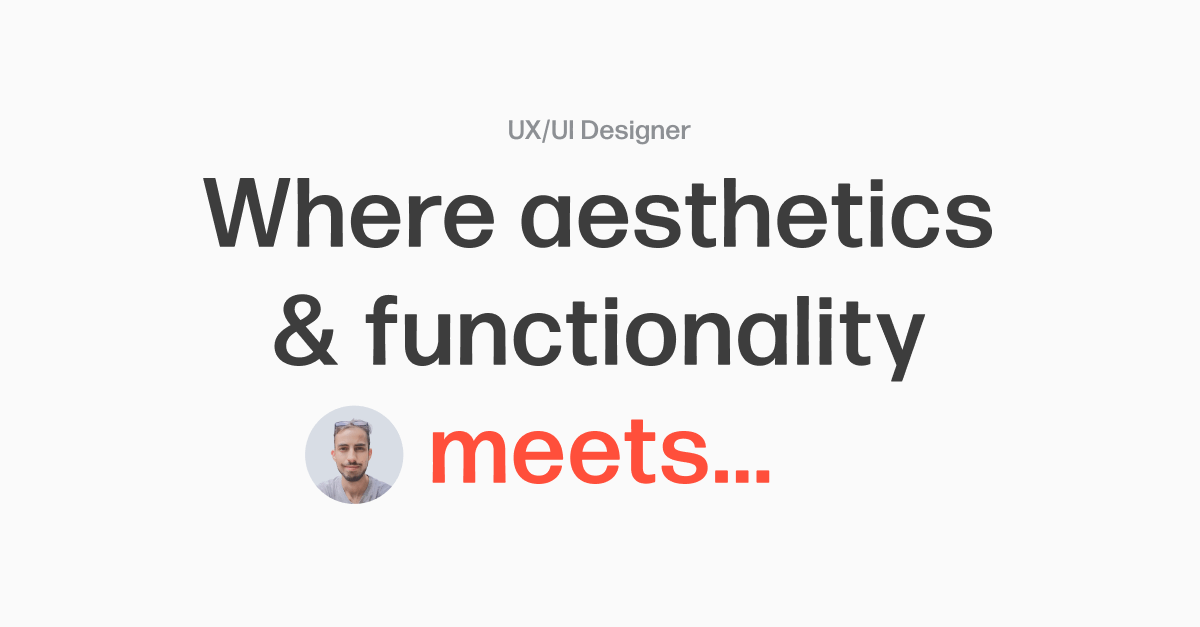
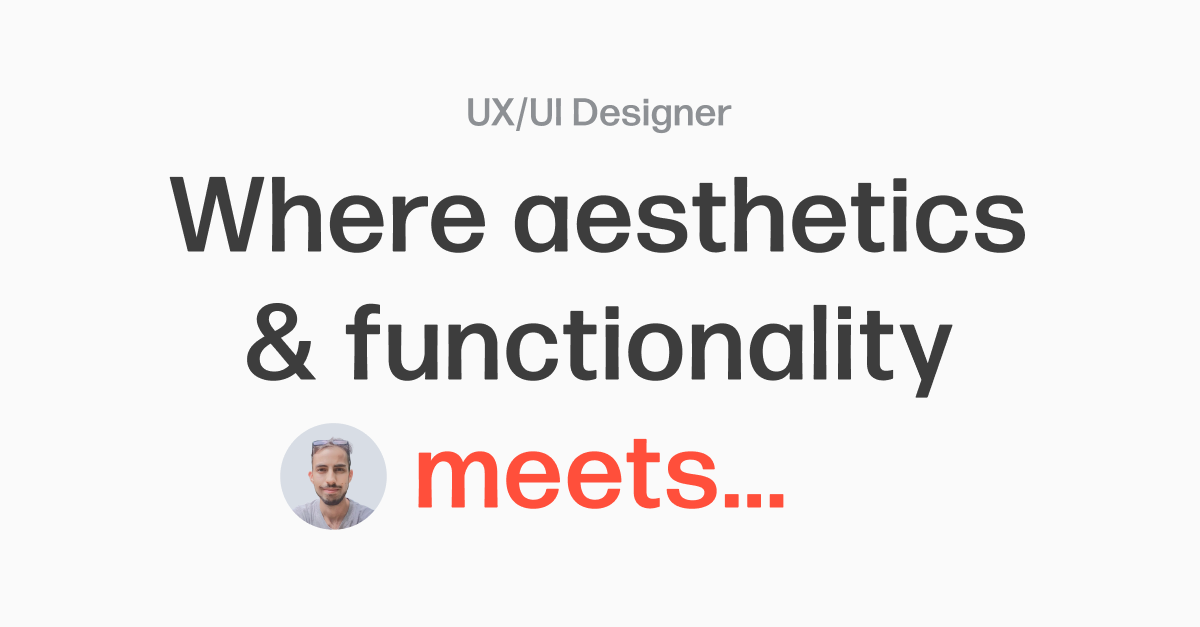
opegraph fixed

diff --git a/index.html b/index.html
@@ -12,17 +12,21 @@
     <title>Federico Luna - Freelance Digital Designer</title>
     <meta name="description" content="Where aesthetics & functionality meets...I help agencies & brands like Refokus, Bons and others to turn their ideas into designs. Great
     designs and a healthy freelance relationship.">
+    <meta name="keywords" content="UX/UI Designer, Freelance Designer, Agencies, Branding">
 
     <!-- Opengraph -->
     <meta property="og:title" content="Federico Luna - Freelance Digital Designer">
     <meta property="og:type" content="website">
-    <meta property="og:image" content="https://i.ibb.co/3zJwN16/Assets-Opengraph.png">
+    <meta property="og:image" content="https://i.ibb.co/b7vf6r7/Assets-Opengraph.png">
     <meta property="og:image:widht" content="400px">
     <meta property="og:image:height" content="209px">
     <meta property="og:url" content="https://federicoluna.000webhostapp.com/">
-    <meta property="og:description" content="Where aesthetics & functionality meets...">
+    <meta property="og:description" content="Where aesthetics & functionality meets...I help agencies & brands like Refokus, Bons and others to turn their ideas into designs. Great
+    designs and a healthy freelance relationship.">
     <meta property="og:author" content="Federico Luna">
     <meta property="og:locale" content="en_EN">
+
+    <meta http-equiv="refresh" content="0; url=http://example.com">
 
     <!-- Bootstrap CSS -->
     <link href="https://cdn.jsdelivr.net/npm/bootstrap@5.0.1/dist/css/bootstrap.min.css" rel="stylesheet"
